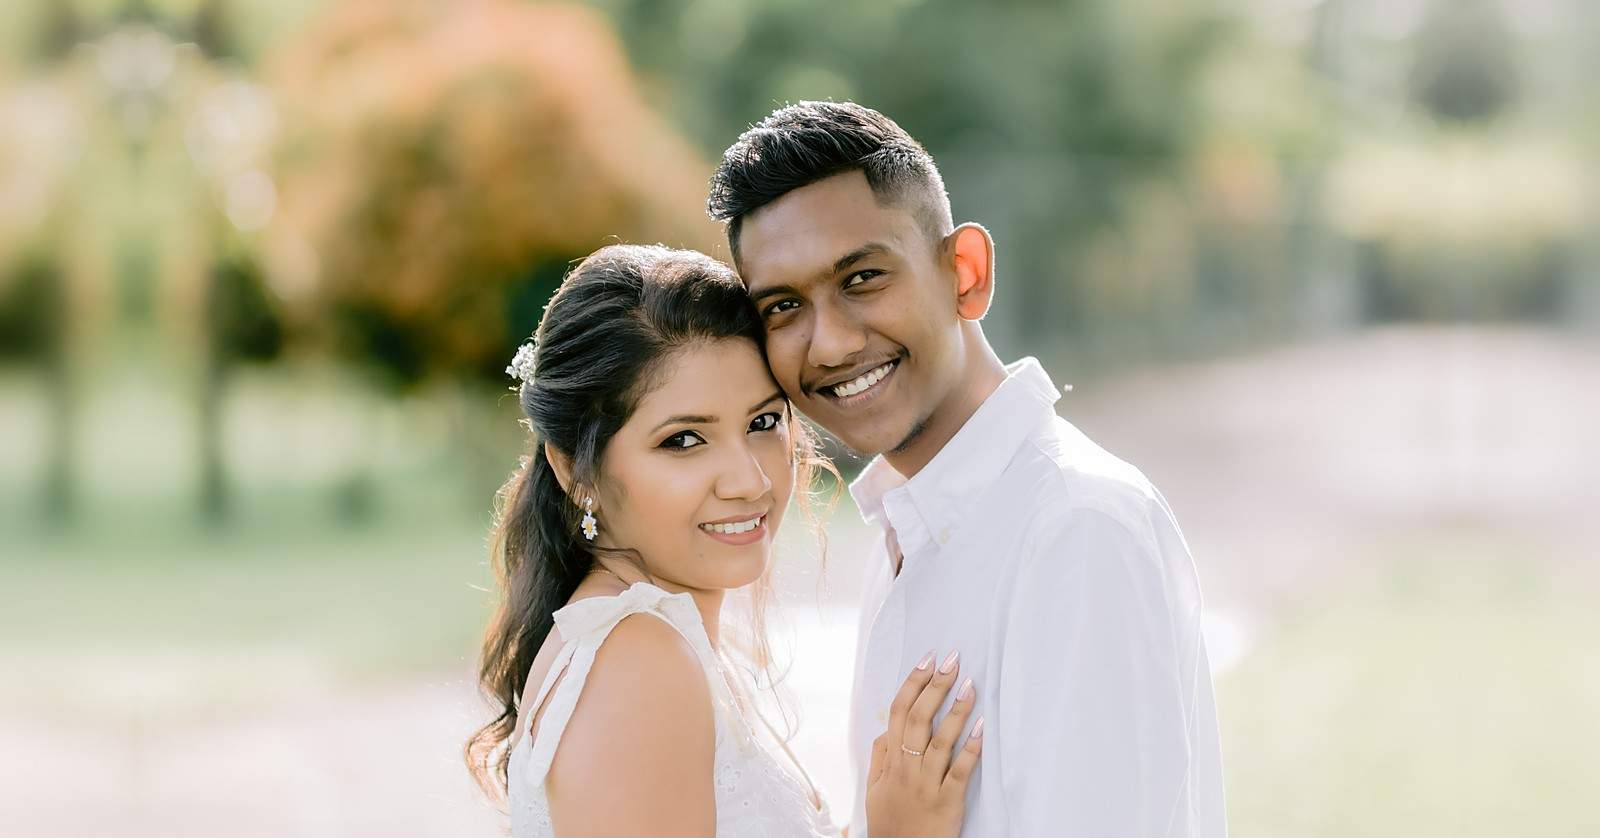
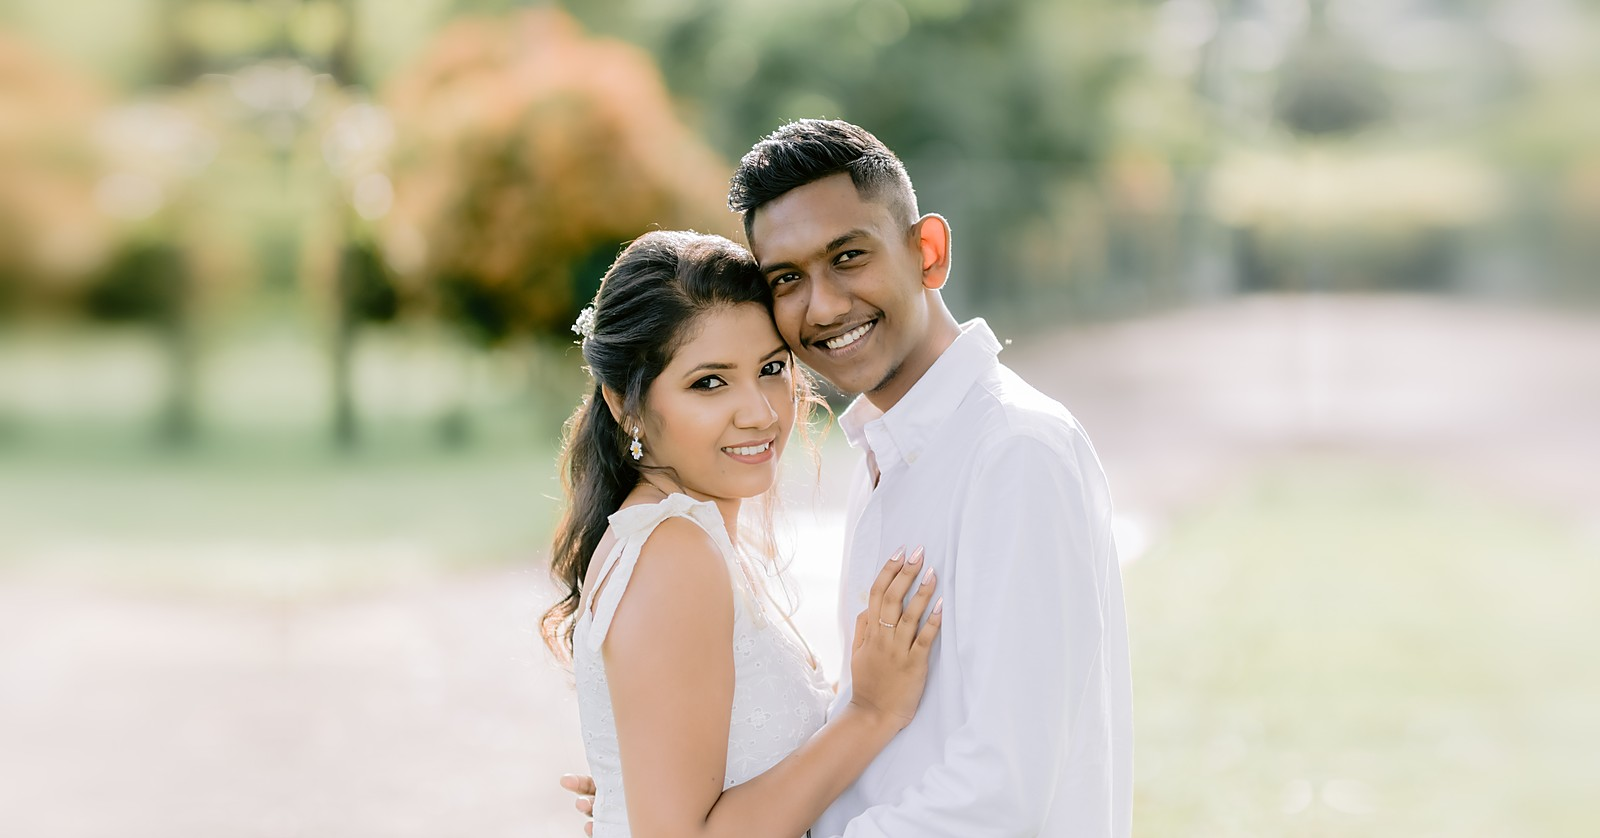
Zoom the link preview out to the waist
Show the couple from well above their heads down to the embrace at the
waist. The wider framing extends the out-of-focus background by
stretching and blurring only the outer 600 px of each edge, so neither
person is mirrored. Still 1600x838 (130 KB); image version bumped.

diff --git a/index.html b/index.html
@@ -17,14 +17,14 @@
   <meta property="og:url" content="https://yashodyavihanga.vercel.app/" />
   <!-- Link preview image (WhatsApp, Facebook, etc.): the cover photo, cropped to 1600x838.
        Must be a full address on the live site; built by scratch/prepare_photos.py -->
-  <meta property="og:image" content="https://yashodyavihanga.vercel.app/assets/images/share-cover.jpg?v=4" />
-  <meta property="og:image:secure_url" content="https://yashodyavihanga.vercel.app/assets/images/share-cover.jpg?v=4" />
+  <meta property="og:image" content="https://yashodyavihanga.vercel.app/assets/images/share-cover.jpg?v=5" />
+  <meta property="og:image:secure_url" content="https://yashodyavihanga.vercel.app/assets/images/share-cover.jpg?v=5" />
   <meta property="og:image:type" content="image/jpeg" />
   <meta property="og:image:width" content="1600" />
   <meta property="og:image:height" content="838" />
   <meta property="og:image:alt" content="Yashodya and Vihanga smiling together in a close embrace" />
   <meta name="twitter:card" content="summary_large_image" />
-  <meta name="twitter:image" content="https://yashodyavihanga.vercel.app/assets/images/share-cover.jpg?v=4" />
+  <meta name="twitter:image" content="https://yashodyavihanga.vercel.app/assets/images/share-cover.jpg?v=5" />
   <link rel="canonical" href="https://yashodyavihanga.vercel.app/" />
 
   <!-- Preload Envelope Assets for Instant Interaction -->

diff --git a/scratch/prepare_photos.py b/scratch/prepare_photos.py
@@ -37,12 +37,13 @@ HERO = "3T1A0659"
 HERO_WIDE_BOX = (0, 2830, 2796, 2830 + 1748)
 # Same centred strip at 2:3 for phones and portrait tablets, keeping the canopy
 HERO_TALL_BOX = (0, 1106, 2796, 1106 + 4194)
-# Link preview: the close embrace, 1.91:1, from above their heads down to
-# her hand on his chest. That is wider than the photo, so the soft,
-# out-of-focus background is extended by SHARE_PAD px on each side.
+# Link preview: the close embrace, 1.91:1, from well above their heads down
+# to the embrace at the waist. That is much wider than the photo, so the
+# soft, out-of-focus background is extended by SHARE_PAD px on each side
+# (the outer 600 px of each edge are background only).
 SHARE_PHOTO = "3T1A0763"
-SHARE_ROWS = (1500, 3908)
-SHARE_PAD = 392
+SHARE_ROWS = (1350, 4450)
+SHARE_PAD = 1052
 SHARE_SIZE = (1600, 838)
 
 CARD = '''          <div class="masonry-card" data-category="{cat}" data-full="assets/images/shoot/display/gallery-{n:02d}.jpg?v={v}" onclick="openLightboxAtIndex({i})">
@@ -84,15 +85,16 @@ def fit_long_side(im, size):
     return out
 
 
-def extend_sides(photo, pad):
+def extend_sides(photo, pad, strip=600):
     """Widen a photo whose edges are out-of-focus background: mirror the
-    outer strips outward and blur them more the further they get from the
-    photo, so the join can't be seen."""
+    outer `strip` px outward (stretched to fill `pad`), and blur it more the
+    further it gets from the photo, so the join can't be seen."""
     w, h = photo.size
     canvas = Image.new("RGB", (w + 2 * pad, h))
     canvas.paste(photo, (pad, 0))
-    left = ImageOps.mirror(photo.crop((0, 0, pad, h)))
-    right = ImageOps.mirror(photo.crop((w - pad, 0, w, h)))
+    strip = min(strip, pad)
+    left = ImageOps.mirror(photo.crop((0, 0, strip, h))).resize((pad, h), Image.LANCZOS)
+    right = ImageOps.mirror(photo.crop((w - strip, 0, w, h))).resize((pad, h), Image.LANCZOS)
     canvas.paste(left, (0, 0))
     canvas.paste(right, (pad + w, 0))
     blurred = canvas.filter(ImageFilter.GaussianBlur(40))
